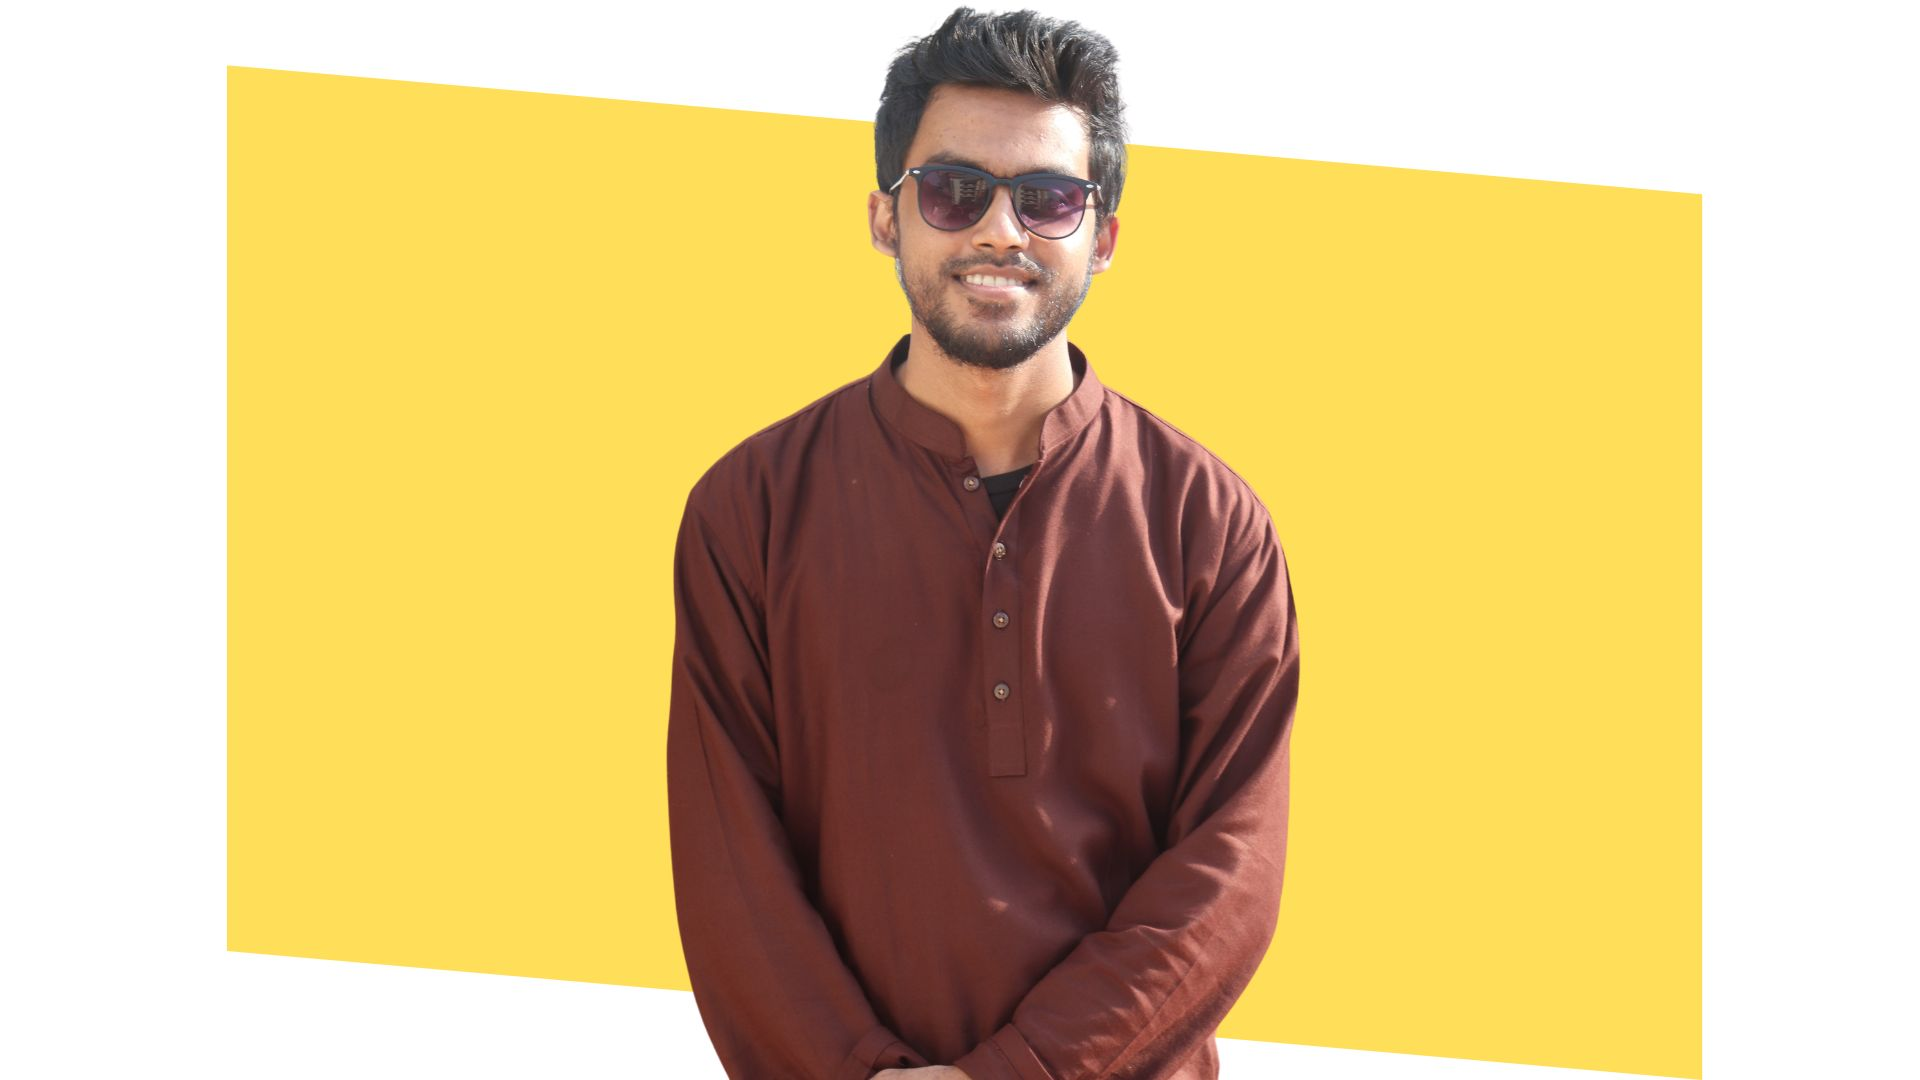
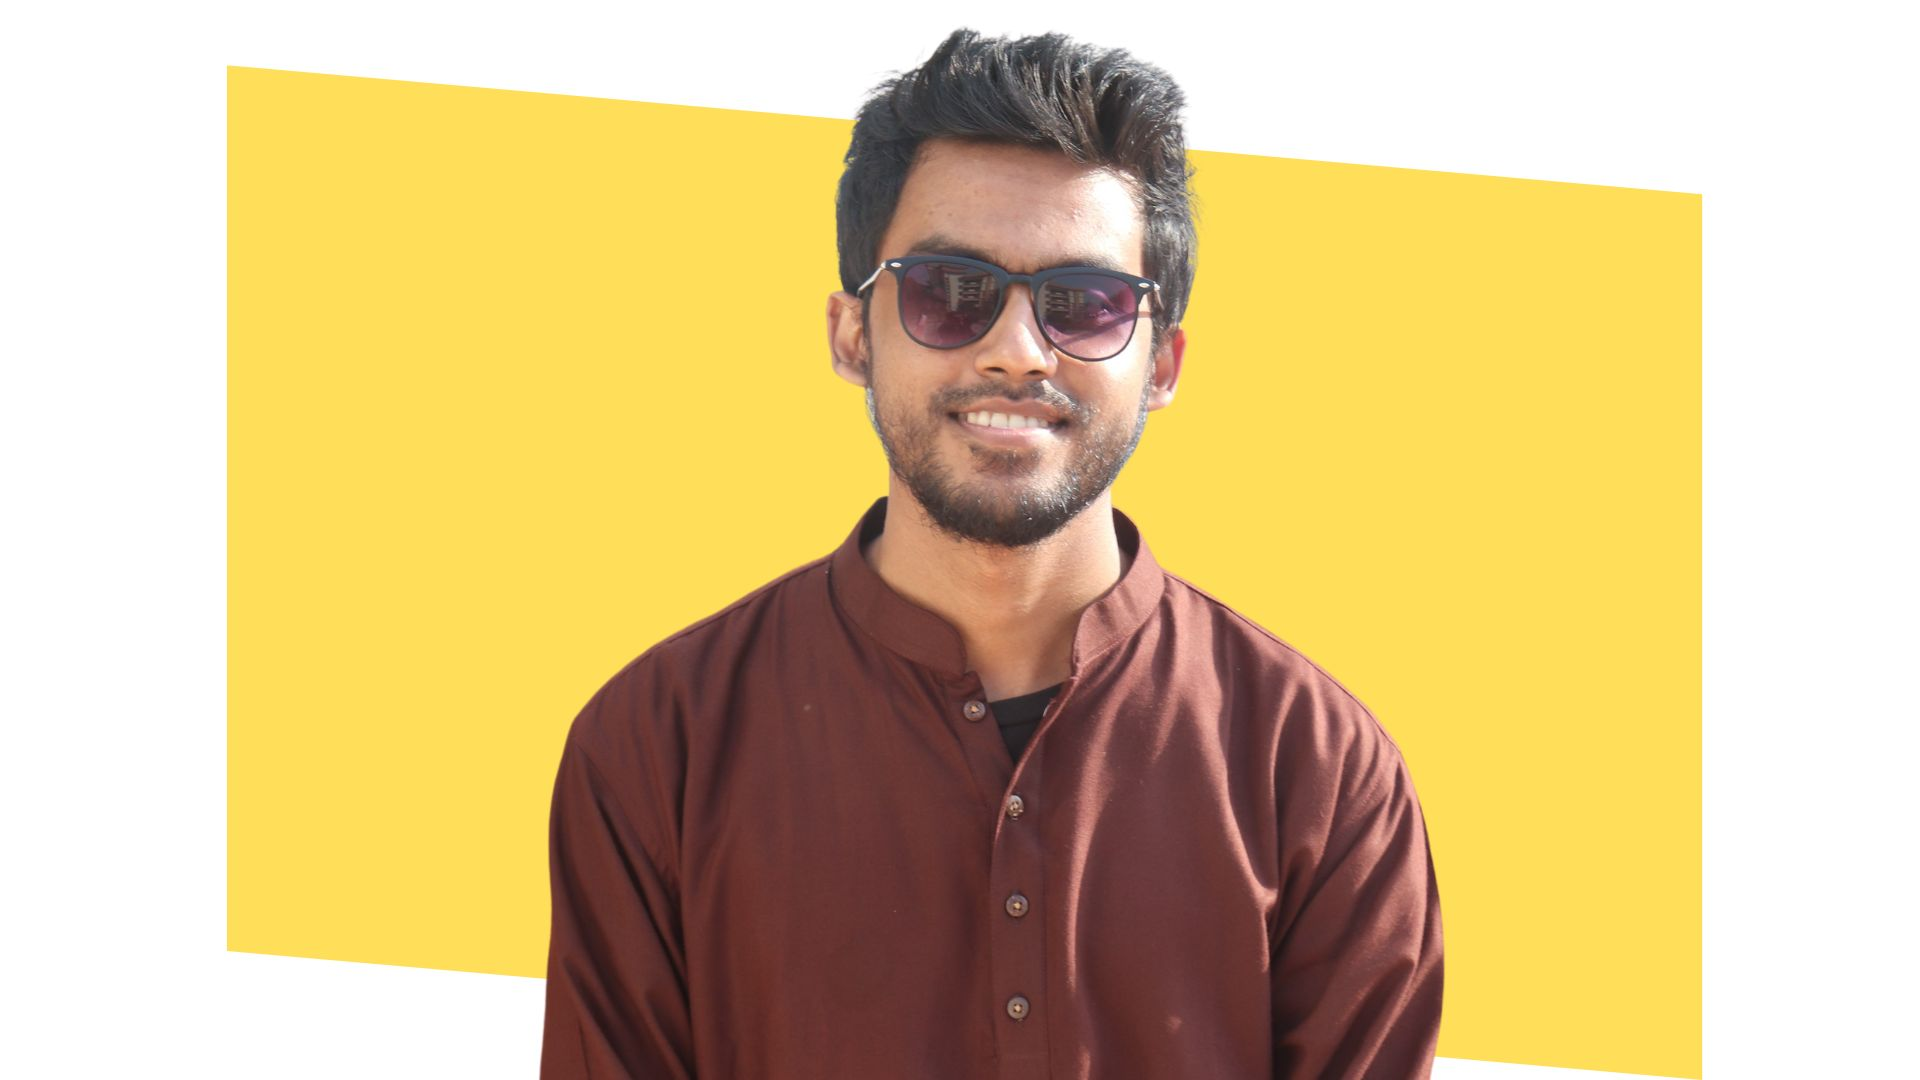
first-section-done with corner image,header, my image and Hire button

Changed region(s): [[0.2812, 0.0, 0.75, 1.0], [0.4375, 0.5806, 0.4688, 0.6111]]

diff --git a/index.html b/index.html
@@ -16,8 +16,41 @@
     <!-- Style Sheat Added -->
     <link rel="stylesheet" href="style.css"> 
 </head>
+
 <body>
-    <h1>Welcome to</h1>
-    <h1>Deba Dip Bhowmik World</h1>
+    
+    <section class="top-banner">
+
+        <div class="half-width">
+        
+            <!-- Heading Title -->
+            <h1>Welcome to</h1>
+            <h1><span class="my-name-title">Deba Dip Bhowmik</span> World!</h1>
+    
+            <h3>Build Websites and Machine Learning Enthusiast</h3>
+    
+            <!-- My Description -->
+            <p>An
+                enthusiast and creative programmer
+                with an organized and hard-working
+                mentality. Love to extend my skill set
+                and take on new challenges that helps
+                to grow me both professionally and
+                personally. And I also love to learn from
+                my failures.
+            </p>
+
+            <!-- Hire me button -->
+            <a class="link-button" href="https://www.linkedin.com/in/deba-dip-bhowmik-237b30216/" target="_blank">HIRE ME</a>
+        </div>
+    
+        <div class="half-width">
+            <img src="images\Design with color.JPG" alt="my_image">
+        
+        </div>
+
+    </section>
+
+
 </body>
 </html>

diff --git a/style.css b/style.css
@@ -1,7 +1,52 @@
 body{
+    margin: 0;
+    padding: 0;
     font-family: 'Poppins', sans-serif;
+}
+
+/* Designing First Section */
+
+section{
+    display: flex;
+}
+
+.top-banner{
+    /* My Mistake was on images\top-banner.JPG . Actually it would be images/top-banner.JPG */
+    background-image: url(images/top-banner.JPG);
+    background-repeat: no-repeat;
+}
+
+.half-width{
+    width: 100%;
+    padding-left: 5%;
+    padding-right: 5%;
+}
+
+.half-width img{
+    width: 100%;
+    height: 100%;
 }
 
 h1{
     font-size: 50px;
 }
+
+span.my-name-title{
+    color: orange;
+}
+
+/* Designing Hire me Button */
+.link-button{
+    text-decoration: none;
+    height: 150px;
+    width: 300px;
+    padding: 12px;
+    color: white;
+    background-image: linear-gradient(salmon,red, black);
+    font-weight: 700;
+    border-radius: 3px;
+    border-color: yellow;
+}
+
+/********************* First section desinging finished ****************************/
+
